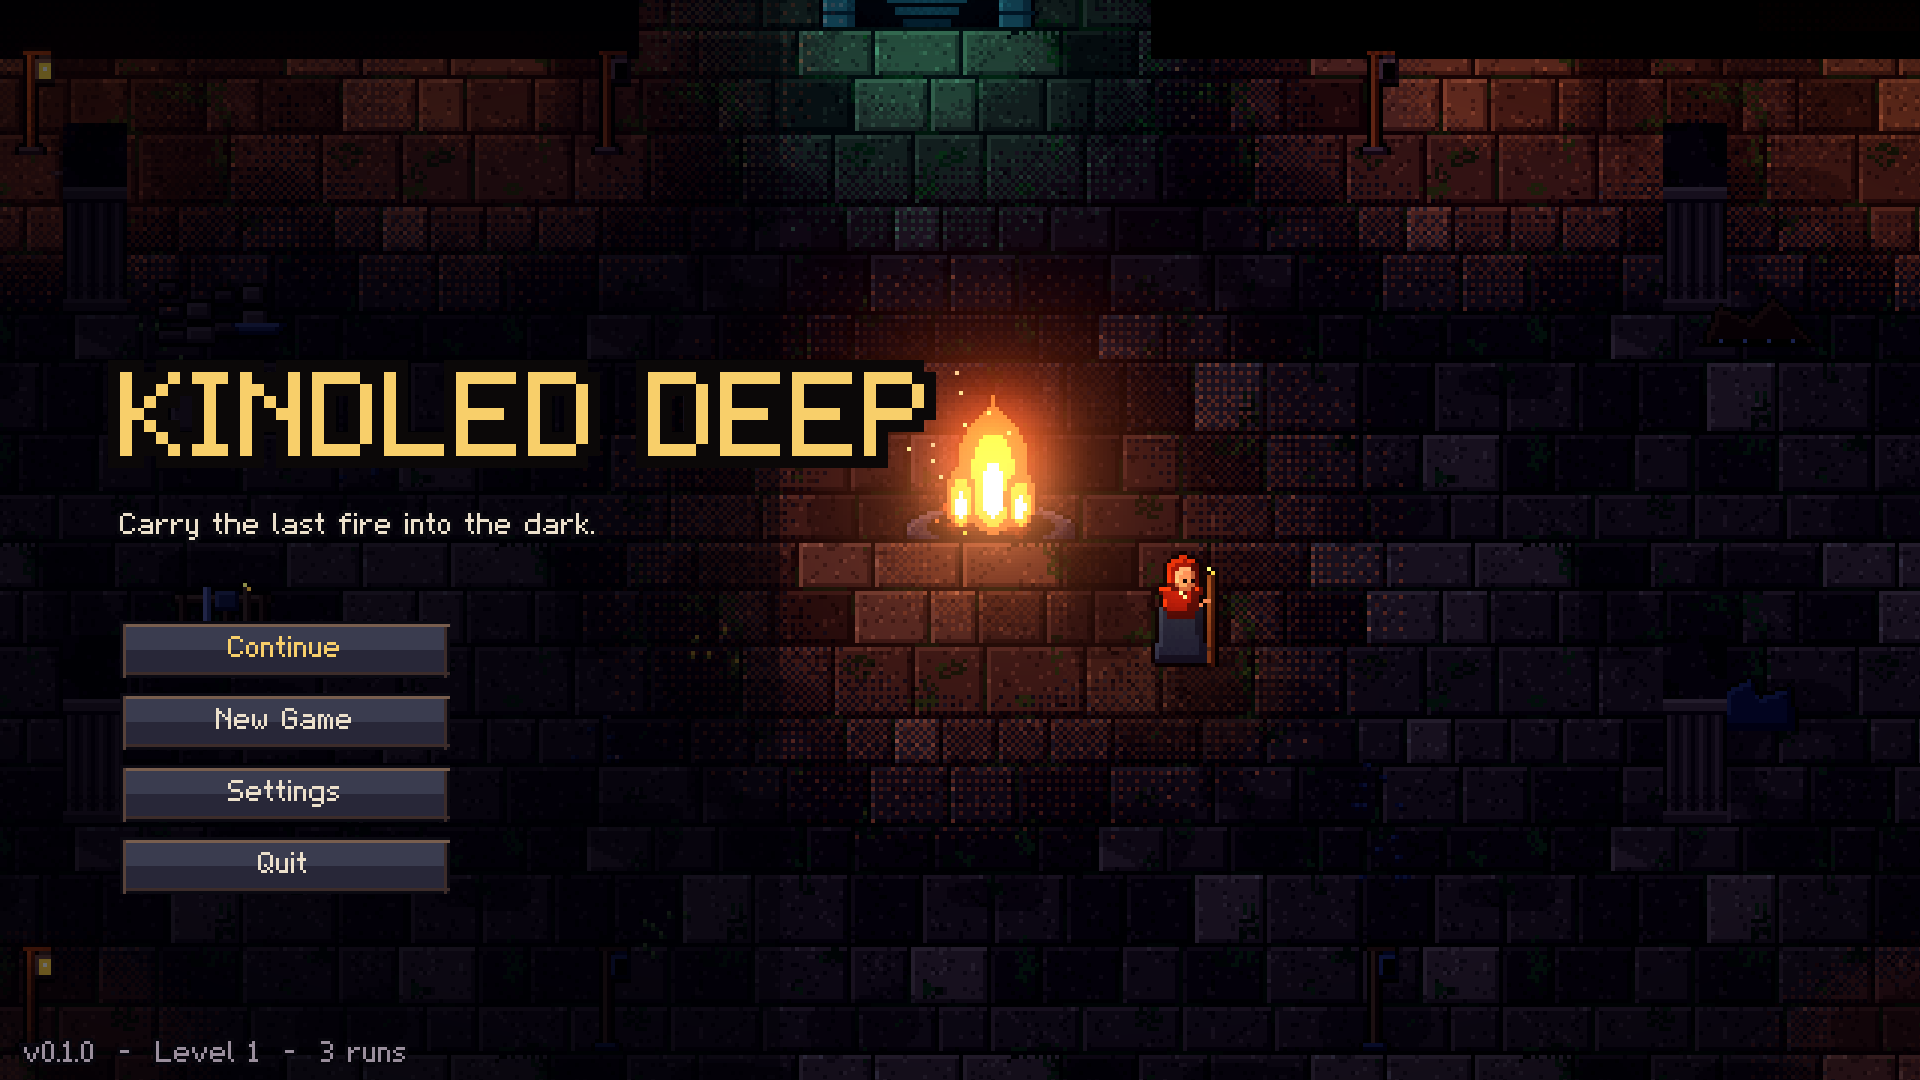
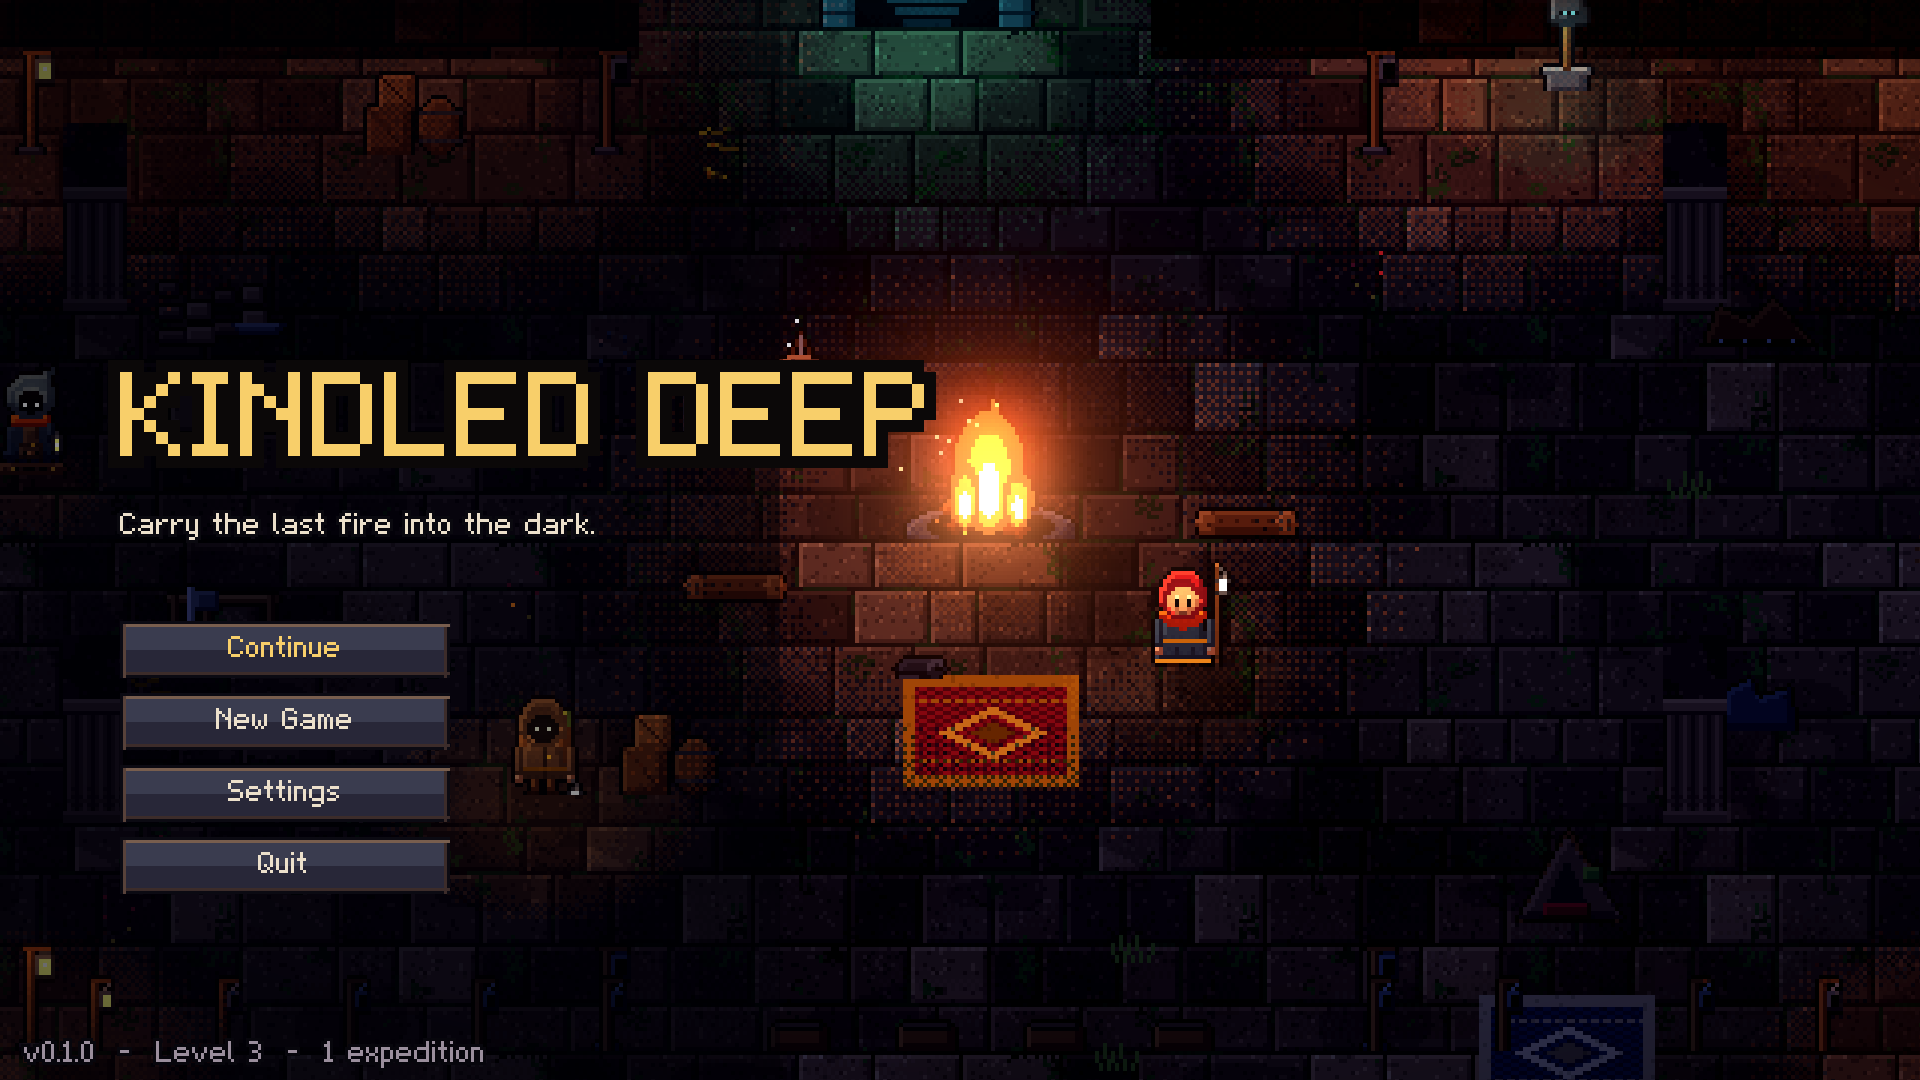
Docs: satchel, uniques, looks of the places, bestiary

diff --git a/docs/STATUS.md b/docs/STATUS.md
@@ -34,7 +34,12 @@ Last updated: 2026-11-03.
   applied as a palette swap in the sprite shader and in menu portraits.
 - Facing follows WASD movement; the aim takes over while fighting (playtest fix).
 - Hearthcall: a 3 s interruptible channel home from anywhere below.
-- The satchel as an opening leather bag (animated open/close, new art/sounds).
+- The satchel: a real messenger satchel when shut (strap, rounded flap, buckles,
+  pocket) that unfolds into the open bag; animated both ways, new art/sounds.
+- 24 uniques (11 new this round, each with tests where they have logic).
+- Visual pass: floor grime shader, three region decal sets + a camp set,
+  room lights in bigger rooms, ambient air per region, rugs and ruin signs in
+  the camp, Throne ambience; the Bestiary.
 - Five weapons (new: Twin Fangs, Sunpiercer); forge to +10 with Tempered,
   Masterwork and Ascended tiers and material costs; new forge screen.
 - Level cap 60, Renown, three Hearthtree pages, 22 Feats. Save v7.
@@ -80,9 +85,10 @@ Last updated: 2026-11-03.
 
 | Kind | What |
 |---|---|
-| Automated tests | 65 tests (incl. walking turns the Kindled, Hearthcall break/complete, every weapon's combo and charge, forge costs, the level cap and Renown, pages, feats, the v7 migration, difficulty tiers and the capstone unlock, enemy tier scaling and double affixes, tier might, every region's creatures having scripts/sheets/tiles and rolling only their own pool, blueprints and learning, sets/uniques/looks, gear rolls/stats, equip/craft/salvage, run loot settlement, footsteps on contact frames, mastery ranks, resident requests and gifts, save migration v3->v4, Hearthtree route finding and stat totals, Warden brazier sear, Rootmire brambles never sealing doors, event room generation, Interact through the real input action, device-aware button labels, residents arriving and walking between spots), run locally and on GitHub Actions: combat math, stats, statuses, settlement, XP curve, skill tree rules/connectivity/layout, relic offers, profile currencies, forge, grudges, save round-trip + corrupt-file recovery + migration, dungeon connectivity/structure/determinism/overlap/wall heights, encounter budgets, headless combat simulations (AI hunts and hits, sword combo kills, dodge i-frames + perfect dodge, Ward reflect, burn kills, projectile/wall, bloat friendly fire). `tools/dev/run_tests.sh` |
+| Automated tests | 66 tests (incl. Thornmail, Mirrorguard, Executioner's Band, every blueprint has an icon, walking turns the Kindled, Hearthcall break/complete, every weapon's combo and charge, forge costs, the level cap and Renown, pages, feats, the v7 migration, difficulty tiers and the capstone unlock, enemy tier scaling and double affixes, tier might, every region's creatures having scripts/sheets/tiles and rolling only their own pool, blueprints and learning, sets/uniques/looks, gear rolls/stats, equip/craft/salvage, run loot settlement, footsteps on contact frames, mastery ranks, resident requests and gifts, save migration v3->v4, Hearthtree route finding and stat totals, Warden brazier sear, Rootmire brambles never sealing doors, event room generation, Interact through the real input action, device-aware button labels, residents arriving and walking between spots), run locally and on GitHub Actions: combat math, stats, statuses, settlement, XP curve, skill tree rules/connectivity/layout, relic offers, profile currencies, forge, grudges, save round-trip + corrupt-file recovery + migration, dungeon connectivity/structure/determinism/overlap/wall heights, encounter budgets, headless combat simulations (AI hunts and hits, sword combo kills, dodge i-frames + perfect dodge, Ward reflect, burn kills, projectile/wall, bloat friendly fire). `tools/dev/run_tests.sh` |
 | Autopilot playtests | Headless bot runs (seed 7): clears depth 1, descends, plays depth 2. Boss run with `godmode`: Gloamfall at 54%, skitter calls, Warden dies, Hearthstone victory settles (bonus, sunshards, staff unlock). Without godmode the naive bot dies to the Warden in ~25s. Rootmire (godmode): depth 1-2, Bloom wilted by all four burned roots, victory. Event rooms: bot completes a Trial (3 waves, reward), Ember Well and Echo offers without script errors. Loot: a god-mode run through depth 2 and the Warden banked materials, two epic pieces and the Gloamward Lantern into the save. Combat feel: burst captures (`hitlab burst=`) reviewed frame by frame for impacts and flash bloom; sword, hammer and staff autopilot runs clean after the change. Requests: a god-mode run with five active requests counted elite kills, a Sunshard, a chest and Wren's bird (the bot never Wards, so the Ward counter is only checked by code review). Found and fixed: corridor targeting, partial pathing to solid goals, descend re-entry, freed-object timer callbacks. |
-| Latest round (playtest fixes, satchel, forge, progression, camp, audio) | Captured and viewed: the satchel opening sequence and the open bag, the new forge, Hearthcall from start to departure, the Feats screen and pause menu, the sanctuary with feat lanterns, wardrobe stand and the cat. Audio checked with `audiolog` bot runs: every played name resolves, voices fire on telegraphs/hits/deaths, spike traps only within earshot (was 176 plays across the map per run). UI smoke 34/34, seed-7 autopilot run clean. Not checked: the sounds themselves by ear. |
+| Latest round (satchel exterior, uniques, dungeon/camp visuals, bestiary) | Captured and viewed: the satchel opening (shut satchel, flap up, unfolding), every region before/after the visual pass (grime, decals, room lights), decal rows per region (a bug passed the Ossuary row to every region - fixed and re-checked), the camp centre with trophies, rugs and camp clutter, the forge-ruin sign near and far, the title screen, the Bestiary empty and after a Warden kill, the new item icons. The smoke test caught the cat stealing a resident's conversation (moved). |
+| Earlier round (playtest fixes, satchel, forge, progression, camp, audio) | Captured and viewed: the satchel opening sequence and the open bag, the new forge, Hearthcall from start to departure, the Feats screen and pause menu, the sanctuary with feat lanterns, wardrobe stand and the cat. Audio checked with `audiolog` bot runs: every played name resolves, voices fire on telegraphs/hits/deaths, spike traps only within earshot (was 176 plays across the map per run). UI smoke 34/34, seed-7 autopilot run clean. Not checked: the sounds themselves by ear. |
 | Tiers, Throne, gear | Bots with tier-matched epic gear (`kit=N`), Ossuary seed 11: Tier I/kit I and Tier IV/kit IV reach depth 2 alive (98 and 84 kills); Tier IV with Tier I gear dies at depth 2; fresh, ungeared characters died early on Tiers IV and VI (measured before the final curve tune). Tier VI with Tier VI gear reaches depth 2 and dies there after 90 kills (the bot never uses the Hearthtree or sanctuary, so it is weaker than a real Kindled at that point); one earlier Tier VI bot got stuck beside a foe it could not reach (bot pathing; foe diagnostics added to the bot log). Sunken Throne on Tier IV with Tier IV gear: clears depths 1-2 and dies in the first room of depth 3 (115 kills). A second god-mode King kill (seed 3, Tier I) after the poise change: Eclipse at 49%, victory opens Tier III. God-mode bot kills the Ashen King: Eclipse at 49%, victory banks the Sunfall Mantle, a set piece and a blueprint, and Tier II opens Tiers III-IV. Throne floors and the Rootmire/Ossuary at depth 3 run without script errors. Balance numbers from `tools/dev/power_report.tscn` (see DESIGN). |
 | Visual inspection (screenshots actually viewed) | This round: wardrobe portraits and all eight looks in-game, Descent tier picker, Throne floor (redone once: the first gold-flecked slabs read as rust), Ashen King fight (sweep, corona, stagger), Throne foes (Eclipse Acolyte with orbs, hounds), sprite sheets for the King, Sentinel, Hound, Acolyte, Wraith, Spider and Toad. Earlier: dungeon at 1080p, 720p and 3440x1421 (ultrawide), combat with HUD/gates/traps/telegraphs, boss arena phase 1 and Gloamfall, Rootmire rooms and the Hollow Bloom arena, event rooms (Echo, Trial), main menu, sanctuary + dialogue (early and progressed: residents, barks, garden), gamepad menus (focus ring, pad prompts, rebinding columns, skill tree hints), redrawn sanctuary NPCs (sprite sheets and in the hub), the new Hearthtree (empty, partly allocated, route preview affordable/unaffordable, search, masteries, branch focus, 1080p and ultrawide), request markers and the pause-menu journal, occlusion silhouette, relic choice, forge, settings, run summary. Sprite sheets for all characters, boss, icons. See `docs/screenshots/`. |
 | UI smoke test | `-- uismoke`: opens every screen and presses its buttons (sanctuary building, forge craft/temper, weapon rack, skill allocate/refund/respec, memorial, settings tabs, merchant purchases, blood pact, chest, lore, Hearthstone confirm, extraction), kindles a distant Hearthtree node (checks exactly the previewed path is bought), moves the mouse around the player (aim, facing, swing direction), equips from the satchel, forges, masterworks, tempers, salvages, buys and sells, searches and focuses branches, ranks up a mastery and reads its tooltip, plays a resident's request conversation through to the gift, then drives menus with synthetic gamepad events (B interacts/backs out, A confirms, RB switches tabs, focus follows). Found and fixed the shop/forge refresh bug, a late-descend race, and (in the input audit) a missing Interact input path: until this fix a human could not open chests, trade or take the stairs - the bot and smoke test had been calling `interact()` directly. |
@@ -109,8 +115,8 @@ Last updated: 2026-11-03.
   measurement (peak-normalised, distance falloff), not by ear.
 - Hearthcall lets a player escape most non-boss fights if they can avoid being
   hit for 3 s; watch whether that removes too much tension.
-- The trophy row (north-east corner) and the cat were checked in code and one
-  capture; the trophies have not been seen on screen yet.
+- The Warden's and the Ashen King's trophies have been seen on screen; the
+  Bloom's has not.
 - New enemies and the King have no drawn hurt/death frames (procedural reactions only).
 - Gear balance is a first pass; no drop-rate tuning against real play yet.
 - Gamepad support is verified with synthetic events only; no physical controller has been tested.

diff --git a/docs/DESIGN.md b/docs/DESIGN.md
@@ -243,7 +243,16 @@ choice. Combat rooms seal with soul-light gates until cleared.
 
 - **Blueprints** are rare finds (elites, chests, always one from the Ashen
   King) that you learn from the satchel; each unlocks one **unique** at the
-  smithy. Thirteen uniques, deliberately not all about damage: Gambler's Coin
+  smithy. Twenty-four uniques, deliberately not all about damage. The newest
+  eleven: Crown of Embers (damage grows with the Embers you carry), Mothwing
+  Cloak (ember moths seek and ignite foes), Thornmail of the Rootmire (thorns
+  burst out when struck), Firebrand Gauntlets (fire spreads), Mirrorguard
+  Bracers (a Ward throws the blow back x3), Sandals of Still Time (perfect
+  dodges still time longer and refund the dodge), Executioner's Band (crits
+  under a quarter health), Four-Leaf Ring (extra chest treasure, rarer finds),
+  Grudgebearer's Locket (power from the Grudges hunting you), The Bottomless
+  Flask (cleared rooms refill a flask) and the Glass Lantern (close-range damage
+  for less health). The first thirteen: Gambler's Coin
   (crits sometimes spill Embers - "KA-CHING!"), Seven-League Boots, Squeaky
   Clogs (every step squeaks; enemies sometimes trip over the noise), Heart of
   the Mountain, Spellweaver Circlet, Echoing Gauntlets (every fourth hit
@@ -284,8 +293,8 @@ Ascended** makes the blade blaze.
   set pieces, looks, a restored sanctuary, the cap and Renown. Rewards are
   Embers, Sunshards, two wardrobe looks and, for the great ones, a skill point
   past the cap. Granted the moment they are reached.
-- Alongside: difficulty tiers I-VIII, gear tiers and sets, 13 blueprints, eight
-  (now ten) looks, Grudges and Memory.
+- Alongside: difficulty tiers I-VIII, gear tiers and sets, 24 blueprints for
+  uniques, ten looks, the bestiary, Grudges and Memory.
 
 ## The sanctuary keeps your story
 
@@ -302,9 +311,28 @@ after your first expedition, a cat that naps by the fire and can be petted.
   pulls you home, keeping everything (an extraction). A sigil and a closing ring
   of hearth-light, embers drawn in, the lantern swelling; any hit, step, swing,
   ward, ability or flask breaks it, and it can't be heard over a living boss.
-- **The satchel** is a leather bag that pops up buckled, springs its two buckles
-  and throws its flap back before the pockets come into the light (character
-  and materials, the gear on the bag's lining, stats); closing reverses it.
+- **The satchel**: a messenger satchel (shoulder strap on brass rings, rounded
+  flap with the pressed hearth emblem, two straps into buckles, a front pocket)
+  pops up shut, its straps slip their buckles, the flap swings up, and it
+  unfolds into the open bag (character and materials in one pocket, gear on the
+  plum lining, stats in another); closing folds it back and buckles it.
+
+## Looks of the places
+
+- **Dungeon floors** carry large, dithered patches of grime and wear (world
+  shader) so slabs never read as one tile repeated. Each region has its own
+  ten pieces of floor clutter, twice as dense as before and gathering at the
+  walls: bones, cobwebs, soul-light seeping through cracks and guttered candles
+  in the Ossuary; moss, roots, glowing caps and spore rings in the Rootmire;
+  gold coins, ash, live cinders and gold-veined cracks in the Throne.
+- **Light**: bigger rooms get candles / glowcaps / braziers along the walls; the
+  air moves (soul motes rise, spores drift, ash and embers fall).
+- **The camp** has its own clutter (straw, wood chips, petals, paw prints),
+  woven rugs by the Hearth and the tent, and a sign over each ruin saying what
+  rebuilding it costs (it fades in as you approach); the prompt says what it
+  brings back (the forge: the smith).
+- **Bestiary** (pause menu): silhouettes until met, then portrait, region,
+  slain count and lore.
 
 ## Signature: the dungeon remembers
 

diff --git a/CLAUDE.md b/CLAUDE.md
@@ -45,6 +45,7 @@ GODOT="/c/Users/Skrra/Desktop/Godot_v4.7.2-stable_win64.exe"
   `tier=N` (open and select a difficulty tier), `kit=N` (wear random epic gear of item tier N),
   `unlock=all` (open every region and tier), `wear=<set or base ids>`, `look=<look id>`,
   `hearthcall` (start a Hearthcall a second after the floor loads), `audiolog` (print every sound played),
+  `spawn=x,y` (where the Kindled starts in the camp), `open=bestiary`,
   `open=skilltree|forge|descent|settings|controls|pause|relic|summary|inventory|smithy|peddler|wardrobe|feats` (with `open=skilltree`: `hover=<node id>`,
   `search=<text>`), `warp=boss|event`, `pad` (act as if a
   gamepad is in use), `capture=<name> frames=N quit` (saves `captures/<name>.png` of the real rendered window),

diff --git a/README.md b/README.md
@@ -47,8 +47,9 @@ remembers who hurts it.
   gifts - with trophies of fallen bosses, a rack of forged weapons, a lantern lit
   for every two feats and a camp cat.
 - Hearthcall: stand still for three seconds and the Hearth pulls you home.
+- A bestiary of every creature you have met, with their lore.
 - Gear and crafting: six equipment slots, rarities, levels and item tiers,
-  four colour-themed tier sets, thirteen uniques forged from rare blueprints
+  four colour-themed tier sets, twenty-four uniques forged from rare blueprints
   (some of them silly - the Squeaky Clogs make enemies trip), materials from
   enemies, chests and bosses, a smithy (craft, masterwork, temper, salvage), a
   peddler, a leather satchel that unbuckles to show the character, bag and
